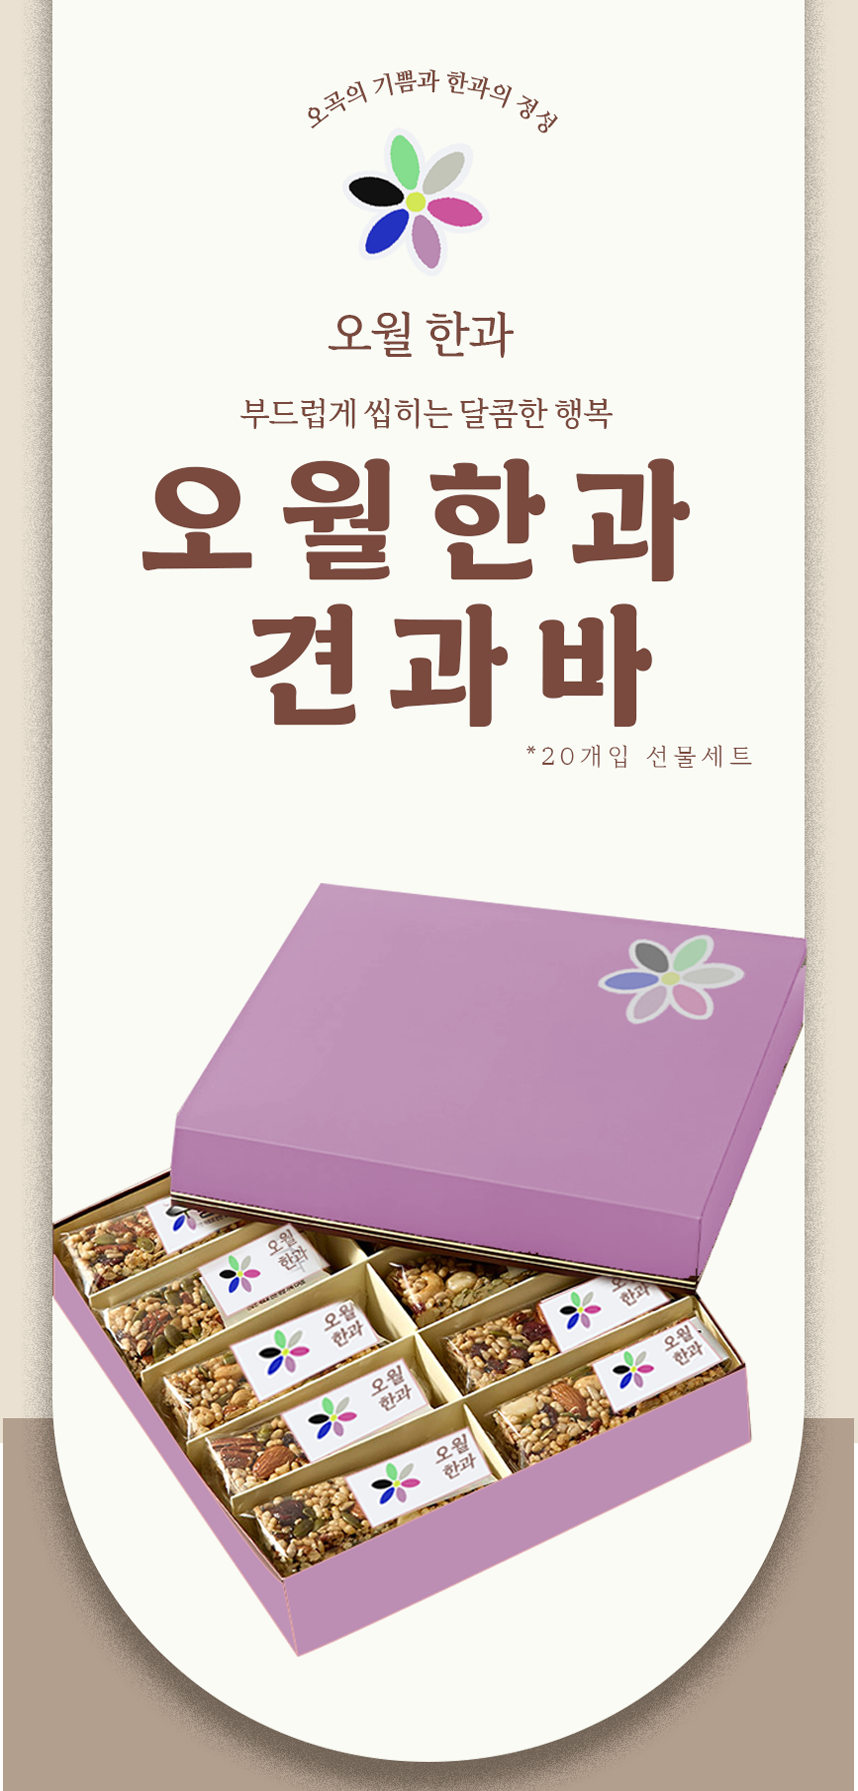
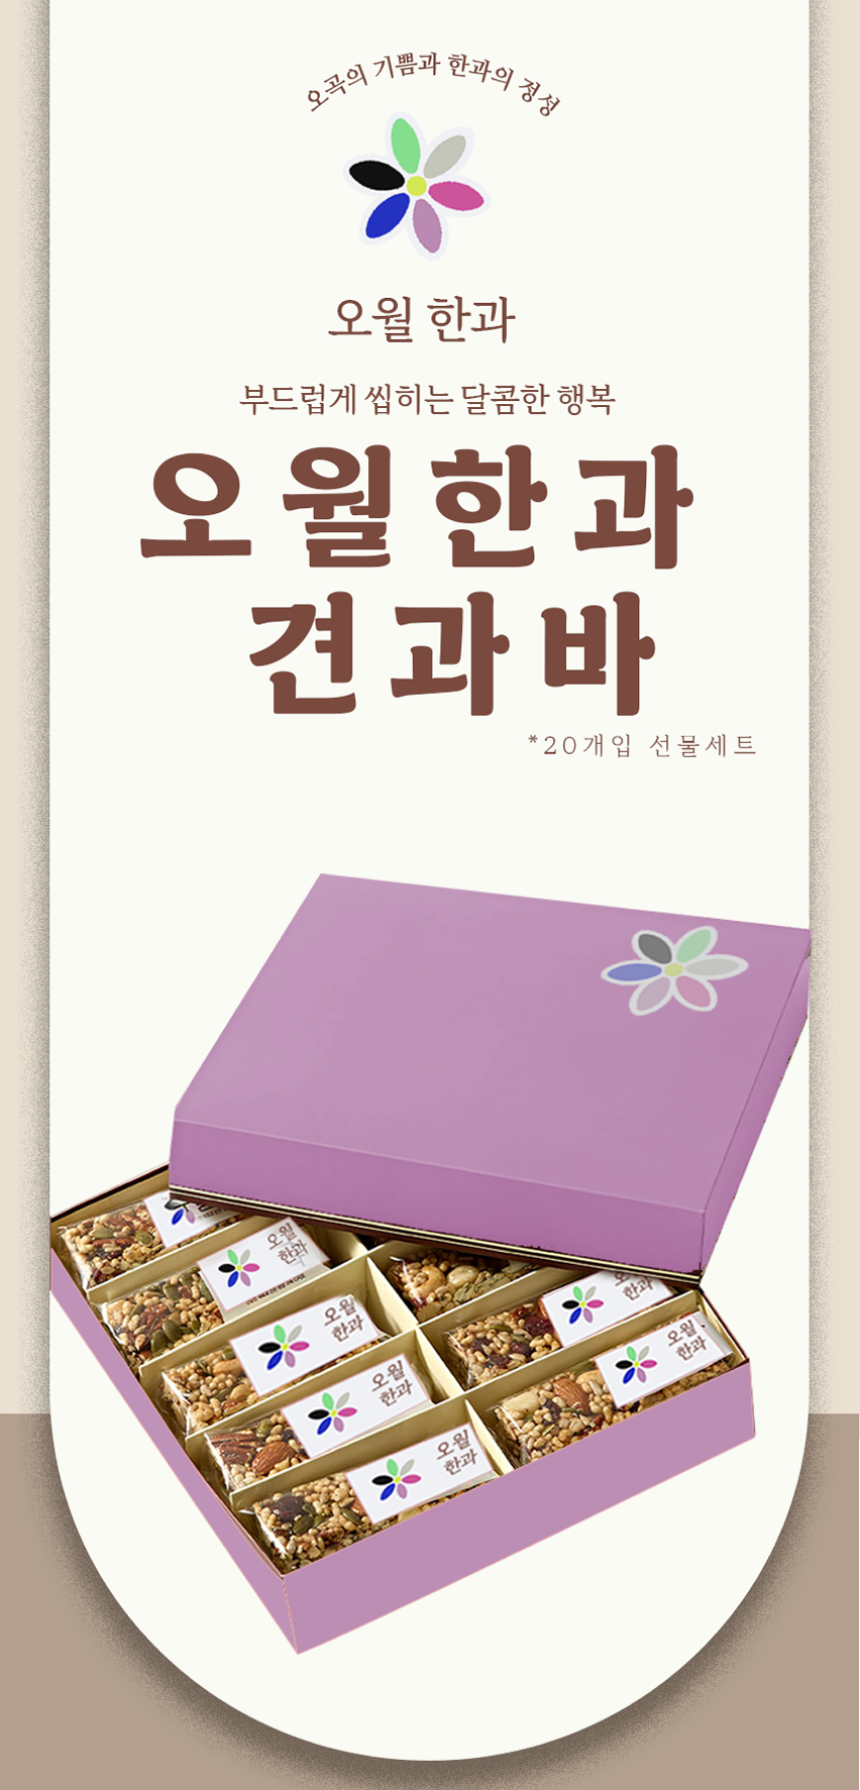
final

diff --git a/docs/index.html b/docs/index.html
@@ -8,20 +8,24 @@
 </head>
 <body> 
 
-    <header></header>
+    <header>
+        <h1>오월한과</h1> 
+        <h3>-상세페이지-</h3>
+        
+    </header>
     <main> 
       
-                <div class="background">
+                <div class="background"> 
                     <div class="sec01"> <img src="img/sec01.png" alt=""></div>         
                      <div class="sec02"> 
-                        <div class="gif"><img src="img/snack.gif" alt="Animated GIF"></div>  
+                        <div class="gif"><img src="img/gif01.gif" alt="Animated GIF"></div>  
                      </div>
                     <div class="sec03"><img src="img/sec03.png" alt=""></div>
                     <div class="sec04"><img src="img/sec04.png" alt=""></div>
                     <div class="sec05"><img src="img/sec05.png" alt=""></div>
                     <div class="sec06"><img src="img/sec06.png" alt=""></div>
                     <div class="sec07"><img src="img/sec07.png" alt=""></div>
-                    <div class="sec08"><img src="img/sec08.png" alt=""></div>
+                    <div class="sec08"><img src="img/sec08.png" alt=""></div>  
                 </div>
            
 

diff --git a/docs/index.css b/docs/index.css
@@ -2,16 +2,32 @@
 
 *{
     margin: 0 ; 
-    padding : 0 ; 
+    padding : 0 ;  
+    box-sizing: border-box;
 } 
 
+header{
+    width : 100% ;  
+    max-width : 860px ;  
+    height : 300px ; 
+    margin : 0 auto ;  
+    text-align: center ;  
+    margin-top: 50px ;
+}
 
+
+h1{
+    font-size: 50px ;
+}
+h3 {
+      font-size: 30px ;
+}
 
 .background
 {width : 100% ; 
 max-width : 860px ;  
 margin : 0 auto ; 
-height : 20000px ;  
+height : 17000px ;  
 background-color: #fff ; }    /* 백그라운드 */ 
 
 .sec01 {
@@ -25,7 +41,7 @@ height : auto ;  /* auto로 변경 */
 width : 100% ;     
 max-width : 860px ;  
 margin : 0 auto ; 
-height :1200px ;  /* auto로 변경 */     
+height :1200px ; 
 background-image:url(img/sec02.png)  ;  
 padding-top: 270px ;
 }
@@ -33,12 +49,14 @@ padding-top: 270px ;
 .gif{
     width : 754px ; 
     height : 487px ;   
-    margin : auto ;         
+    margin : auto ;       
+    overflow: hidden;  
 }
 
 .gif img {
     width : 100% ; 
-    height : 100% ; 
+    max-width: 754px;
+    height: 100% ; 
 }
 
 .sec01 img, 
